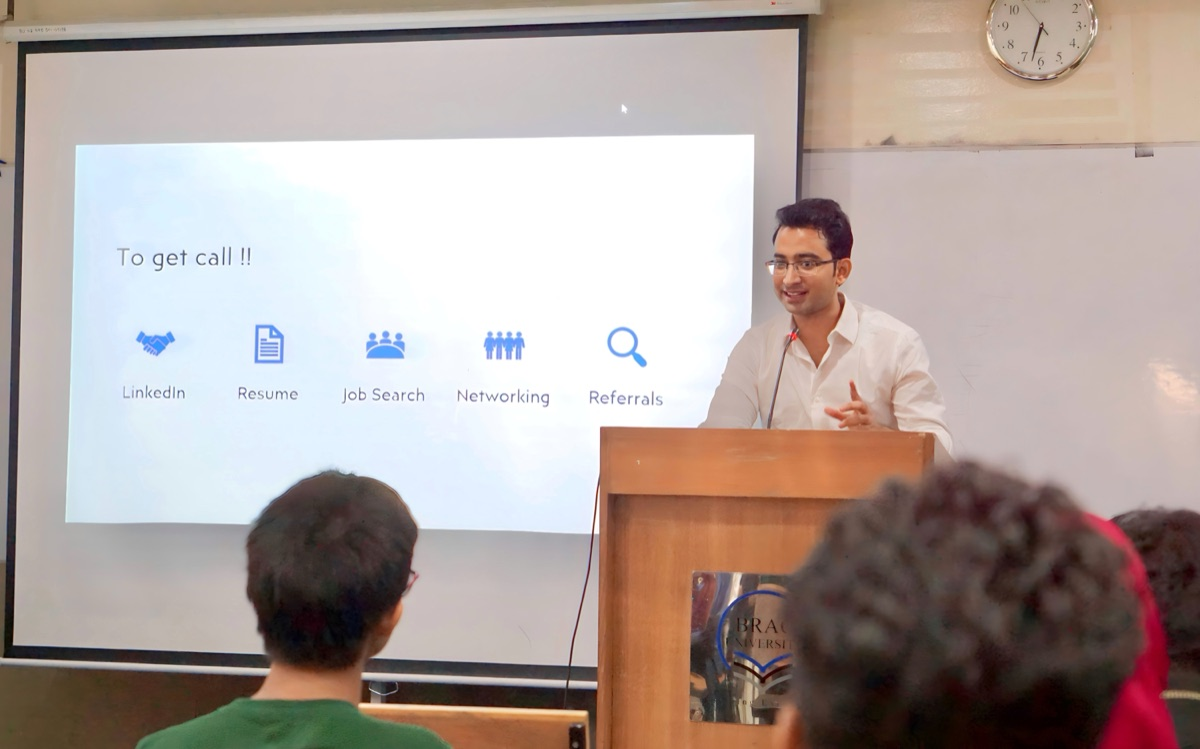
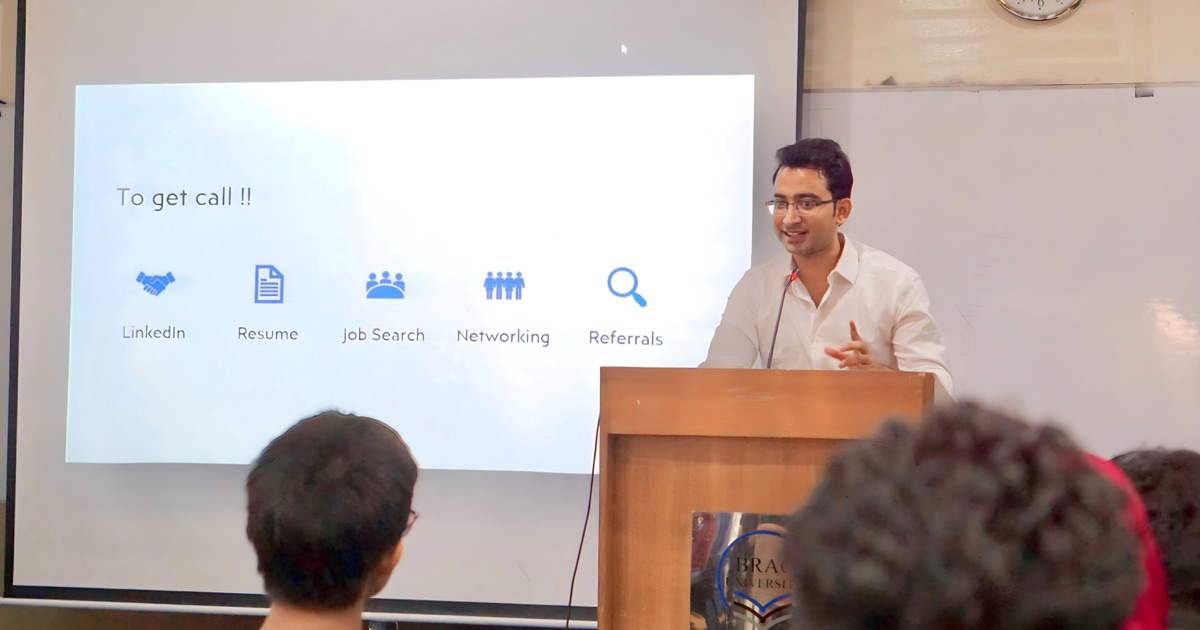
Fix Open Graph: image to 1200x630, title to 67 chars, description to 152 chars, include full name
The Open Graph validator flagged three issues:
- Image was 1200x749, recommended 1200x630
- Title was 12 chars ("Amirul Islam"), optimal 50-60
- Description didn't include the full name

What changed:

* assets/img/cover_photo.jpg re-cropped from the original
  6002x3748 source: center vertical crop to 6002x3151 (matching
  1.91:1 aspect), then resized to 1200x630 at JPEG quality 82.
  98 KB final, no content cut from the focal area.
* metadata-hook.html og:image:height updated 749 -> 630.
* site.title in _config.yml: "Amirul Islam" -> "Amirul Islam Al
  Mamun". Helps name-search SEO across every page.
* index.html: page-level title and description override so the
  homepage gets a richer og:title (67 chars) and og:description
  (152 chars) than the rest of the site, without affecting other
  pages.
* head.html: the <title> tag suppresses the page.title prefix
  when layout is 'landing' (in addition to the existing 'home'
  check), so the browser tab on the homepage stays clean as
  "Amirul Islam Al Mamun" instead of getting the long SEO title.
* Description copy reworded to plain English with keywords
  the audience actually searches for: "data engineering",
  "system design", "practice problems", "roadmaps", "going
  senior". Includes the full name and country.

diff --git a/_includes/head.html b/_includes/head.html
@@ -63,7 +63,14 @@
   {{ seo_tags }}
 
   <title>
-    {%- unless page.layout == 'home' -%}
+    {%- comment -%}
+      Suppress the "page title | " prefix on the homepage (layout: home
+      OR layout: landing). The full SEO/Open Graph title still goes
+      through jekyll-seo-tag via the page's `title:` front-matter, so
+      og:title gets the long, keyword-rich version while the browser
+      tab stays short.
+    {%- endcomment -%}
+    {%- unless page.layout == 'home' or page.layout == 'landing' -%}
       {{ page.title | append: ' | ' }}
     {%- endunless -%}
     {{ site.title }}

diff --git a/index.html b/index.html
@@ -1,3 +1,11 @@
 ---
 layout: landing
+# title here is the SEO/Open Graph title (used for og:title, twitter:title,
+# the schema headline, and what shows in search results / link previews).
+# head.html suppresses prepending page.title to <title> when layout is
+# 'landing', so the browser tab stays "Amirul Islam Al Mamun".
+title: "Amirul Islam Al Mamun · Data Engineering & System Design Notes"
+description: >-
+  Notes on data engineering and system design in plain English, with practice
+  problems and roadmaps for going senior. By Amirul Islam Al Mamun, in Sweden.
 ---

diff --git a/_includes/metadata-hook.html b/_includes/metadata-hook.html
@@ -11,7 +11,7 @@
   (1200x749, ~120 KB).
 {% endcomment %}
 <meta property="og:image:width" content="1200">
-<meta property="og:image:height" content="749">
+<meta property="og:image:height" content="630">
 <meta property="og:image:type" content="image/jpeg">
 
 {% comment %} Better referrer policy for outbound links {% endcomment %}